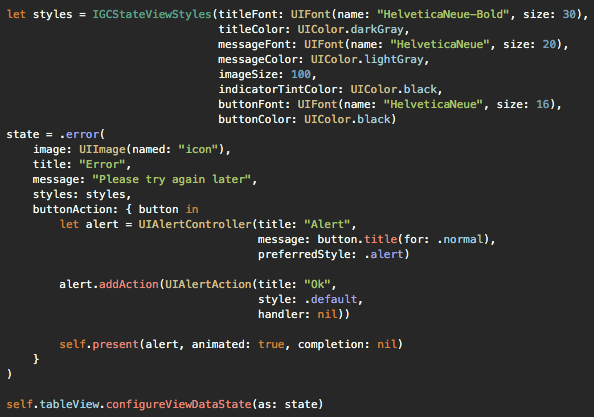
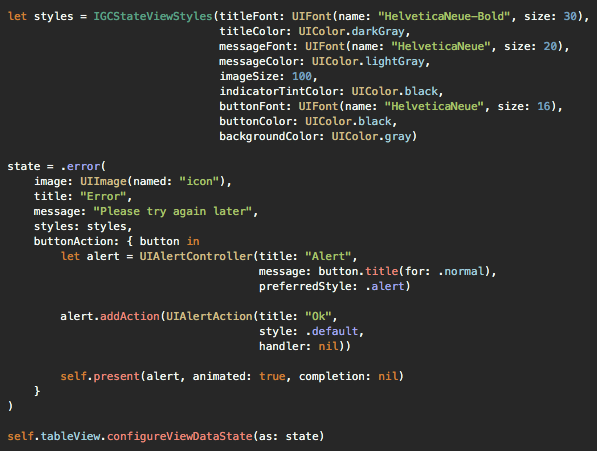
Added option to style state view background

diff --git a/IGCStatefulView/Classes/IGCStatefulView.swift b/IGCStatefulView/Classes/IGCStatefulView.swift
@@ -41,6 +41,8 @@ public enum IGCViewState {
 
 /// Custom type for setting various styles to `IGCStateView` properties.
 public struct IGCStateViewStyles {
+    public typealias ImageOptions = (image: UIImage, contentMode: UIViewContentMode)
+    
     public var titleFont: UIFont
     public var titleColor: UIColor
     public var messageFont: UIFont
@@ -49,6 +51,8 @@ public struct IGCStateViewStyles {
     public var indicatorTintColor: UIColor
     public var buttonFont: UIFont
     public var buttonColor: UIColor
+    public var backgroundColor: UIColor
+    public var backgroundImageOptions: ImageOptions?
     
     public init(titleFont: UIFont? = UIFont.systemFont(ofSize: 18),
                 titleColor: UIColor? = UIColor.black,
@@ -57,15 +61,29 @@ public struct IGCStateViewStyles {
                 imageSize: CGFloat? = 50,
                 indicatorTintColor: UIColor? = UIColor.black,
                 buttonFont: UIFont? = UIFont.systemFont(ofSize: 14),
-                buttonColor: UIColor? = UIColor.black) {
+                buttonColor: UIColor? = UIColor.black,
+                backgroundColor: UIColor? = UIColor.white,
+                backgroundImageOptions: ImageOptions? = nil) {
         self.titleFont = titleFont!
         self.titleColor = titleColor!
+        
         self.messageFont = messageFont!
         self.messageColor = messageColor!
+        
         self.imageSize = imageSize!
+        
         self.indicatorTintColor = indicatorTintColor!
+        
         self.buttonFont = buttonFont!
         self.buttonColor = buttonColor!
+        
+        self.backgroundColor = backgroundColor!
+        
+        guard let imageOptions = backgroundImageOptions else {
+            return
+        }
+        
+        self.backgroundImageOptions = imageOptions
     }
 }
 

diff --git a/IGCStatefulView/Classes/IGCStateView.swift b/IGCStatefulView/Classes/IGCStateView.swift
@@ -17,6 +17,7 @@ final class IGCStateView: UIView {
     // MARK: Outlets
     
     @IBOutlet private var contentView: UIView!
+    @IBOutlet private weak var backgroundImageView: UIImageView!
     @IBOutlet private weak var imageView: UIImageView!
     @IBOutlet private weak var indicatorView: UIActivityIndicatorView!
     @IBOutlet private weak var titleLabel: UILabel!
@@ -129,14 +130,27 @@ final class IGCStateView: UIView {
     private func setupStyle(_ styles: IGCStateViewStyles) {
         self.titleLabel.font = styles.titleFont
         self.titleLabel.textColor = styles.titleColor
+        
         self.messageLabel.font = styles.messageFont
         self.messageLabel.textColor = styles.messageColor
+        
         self.heightConstraint.constant = styles.imageSize
+        
         self.indicatorView.tintColor = styles.indicatorTintColor
+        
         self.button.titleLabel?.font = styles.buttonFont
         self.button.tintColor = styles.buttonColor
         
         self.imageView.updateConstraints()
+        
+        guard let imageOptions = styles.backgroundImageOptions else {
+            self.backgroundImageView.backgroundColor = styles.backgroundColor
+            
+            return
+        }
+        
+        self.backgroundImageView.image = imageOptions.image
+        self.backgroundImageView.contentMode = imageOptions.contentMode
     }
     
 }

diff --git a/Example/IGCStatefulView/SampleTableViewController.swift b/Example/IGCStatefulView/SampleTableViewController.swift
@@ -61,7 +61,9 @@ class SampleTableViewController: UIViewController {
                                             imageSize: 100,
                                             indicatorTintColor: UIColor.black,
                                             buttonFont: UIFont(name: "HelveticaNeue", size: 16),
-                                            buttonColor: UIColor.black)
+                                            buttonColor: UIColor.black,
+                                            backgroundColor: UIColor.gray)
+            
             state = .error(
                 image: UIImage(named: "icon"),
                 title: "Error",
